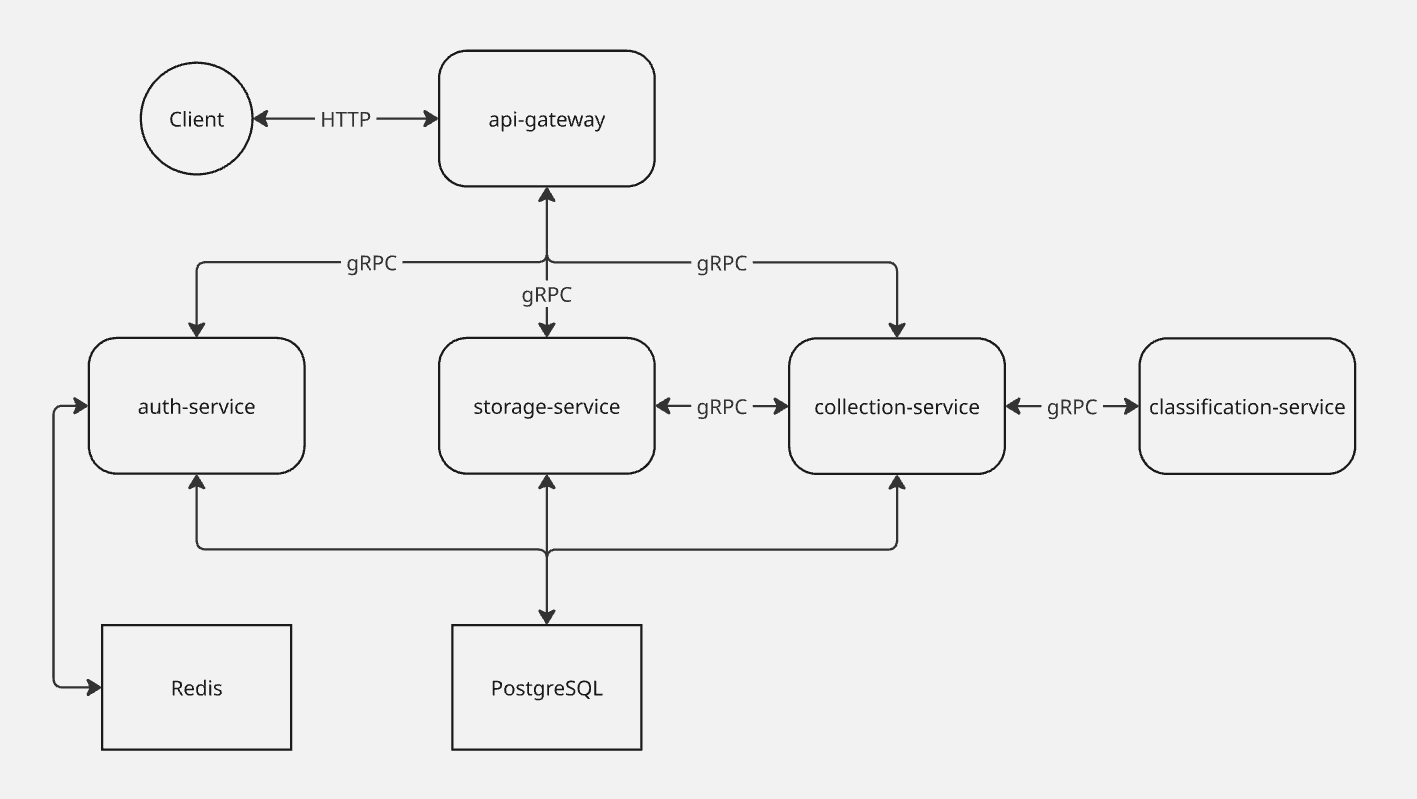
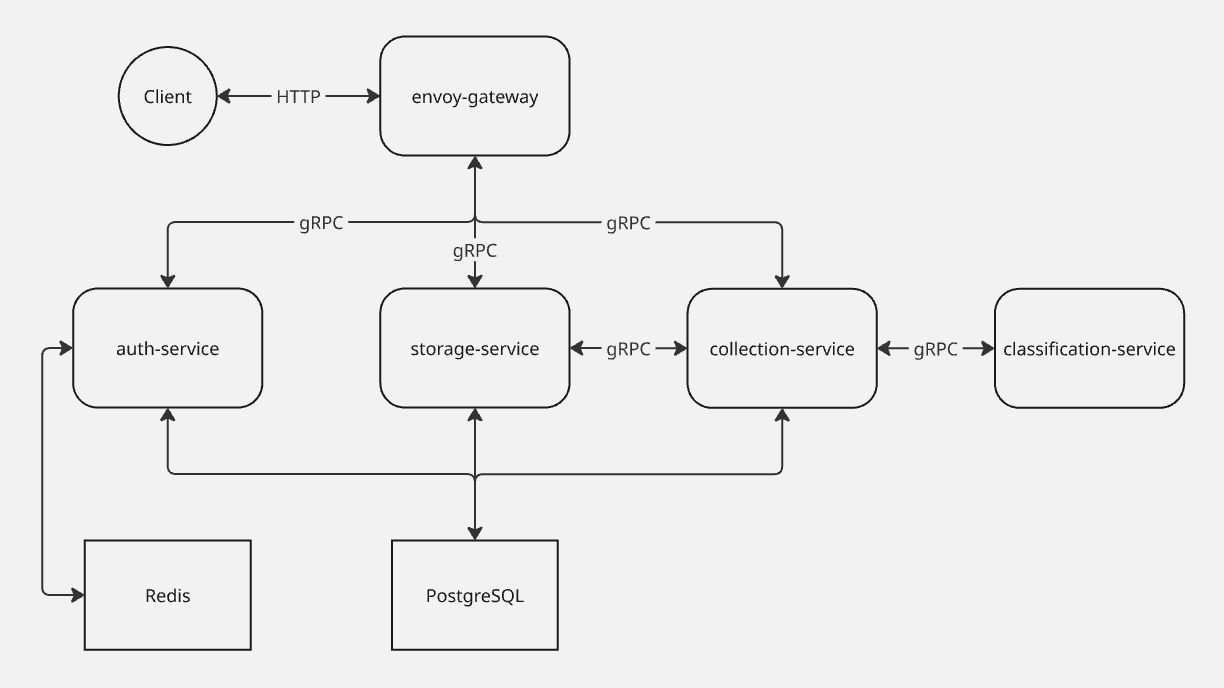
[misc] update readme

diff --git a/README.md b/README.md
@@ -1,7 +1,7 @@
 # Coinflow Server
 
 **Coinflow** – это приложение, которое помогает с удобством вести учет своих денежных доходов и расходов, а также собирает информативную статистику и помогает спланировать будущие траты.  
-В данном репозитории содержится серверная часть данного приложения, разделенная на отдельные микросервисы и предоставляющая единый набор эндпойнтов в API Gateway.
+В данном репозитории содержится серверная часть данного приложения, разделенная на отдельные микросервисы и объединенная под API Gateway, проксирующим трафик.
 
 
 ## Используемые технологии
@@ -12,12 +12,13 @@
 * PostgreSQL
 * Redis
 * Gin
-* Swagger
+* Envoy
 * Docker
 
 ## API
 
-Детальное описание API можно найти [здесь](docs/API.md).
+Детальное описание API можно найти [здесь](docs/API.md).  
+По умолчанию для клиентских запросов прослушивается порт 8080. Изменить его можно в [файле конфигурации Envoy](envoy/envoy-gateway.yaml): ```static_resources.listeners[0].address.socket_address.port_value```
 
 ## Запуск
 
@@ -41,7 +42,7 @@ make stop_services
 
 ## Архитектура сервера
 
-* **api-gateway** – API Gateway, предоставляющий клиенту единый набор эндпойнтов для взаимодействия с сервером.
+* **envoy-gateway** – Envoy Proxy в качестве API Gateway, проксирующий запросы и предоставляющий клиенту единый набор эндпойнтов для взаимодействия с сервером.
 * **auth-service** – сервис для пользовательской авторизации/аутентификации.
 * **storage-service** – сервис для прямого взаимодействия с операциями (добавление/получение).
 * **collection-service** – сервис для получения статистики об операциях пользователя.
